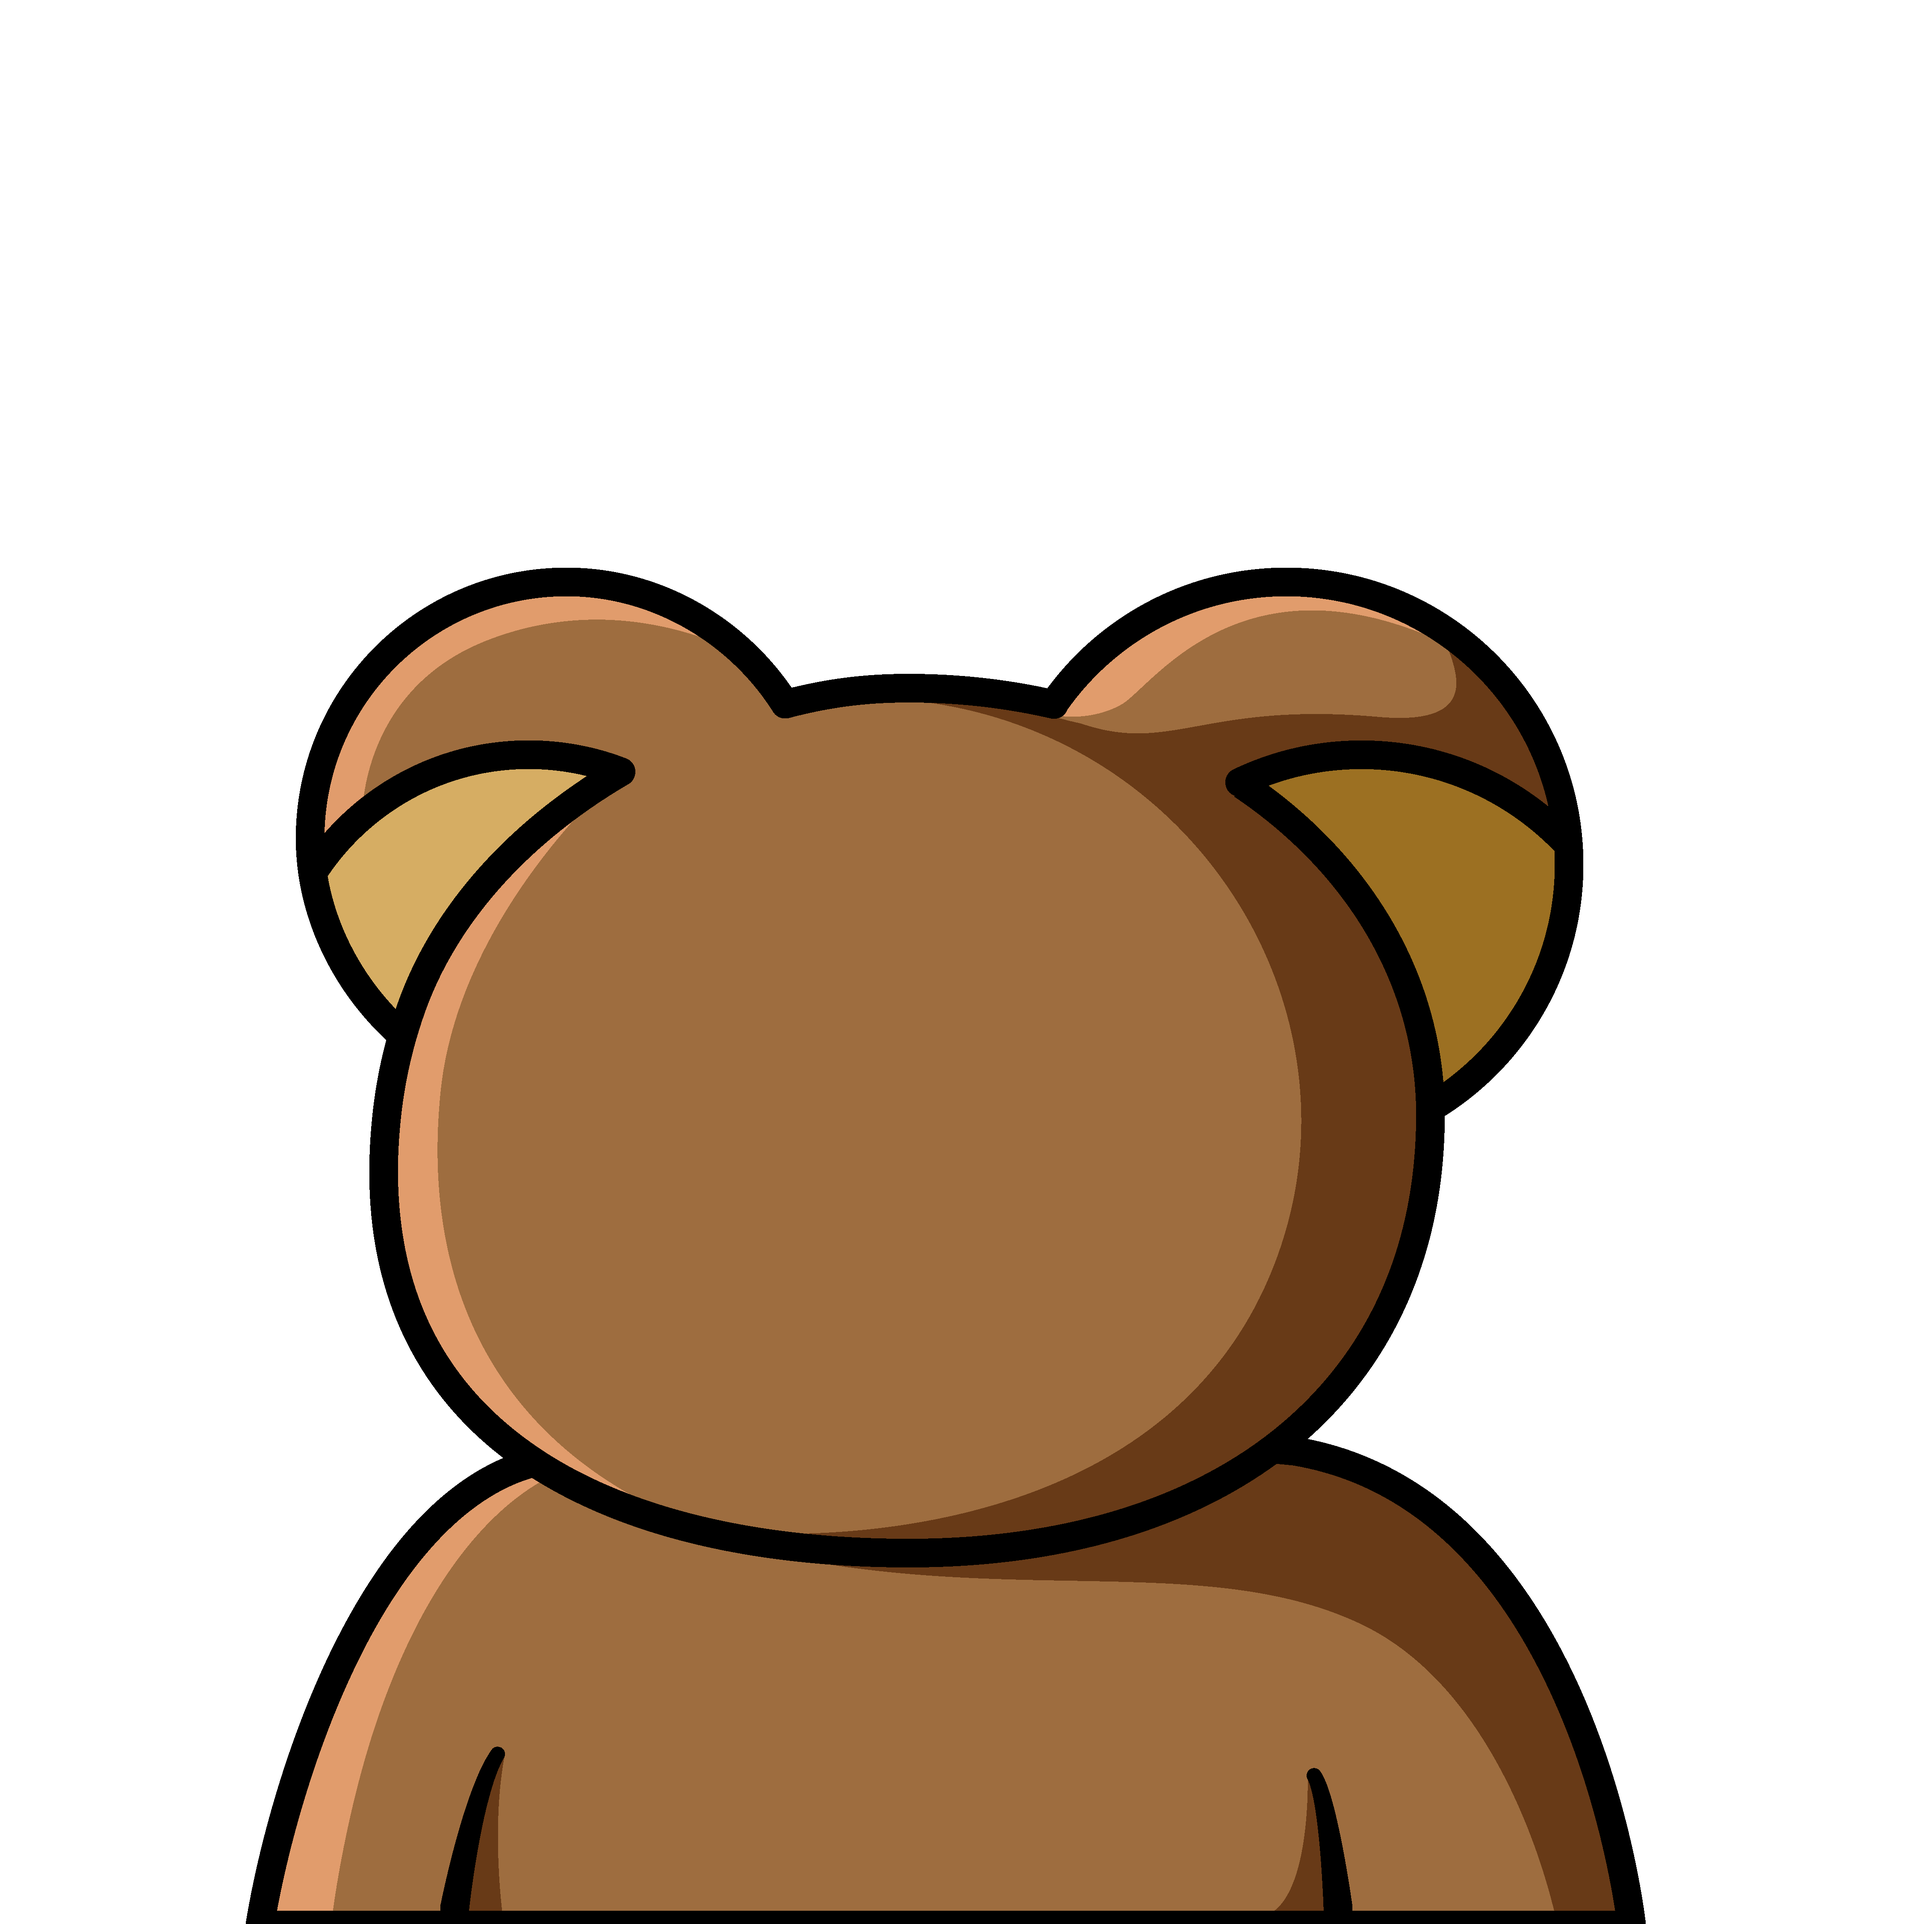
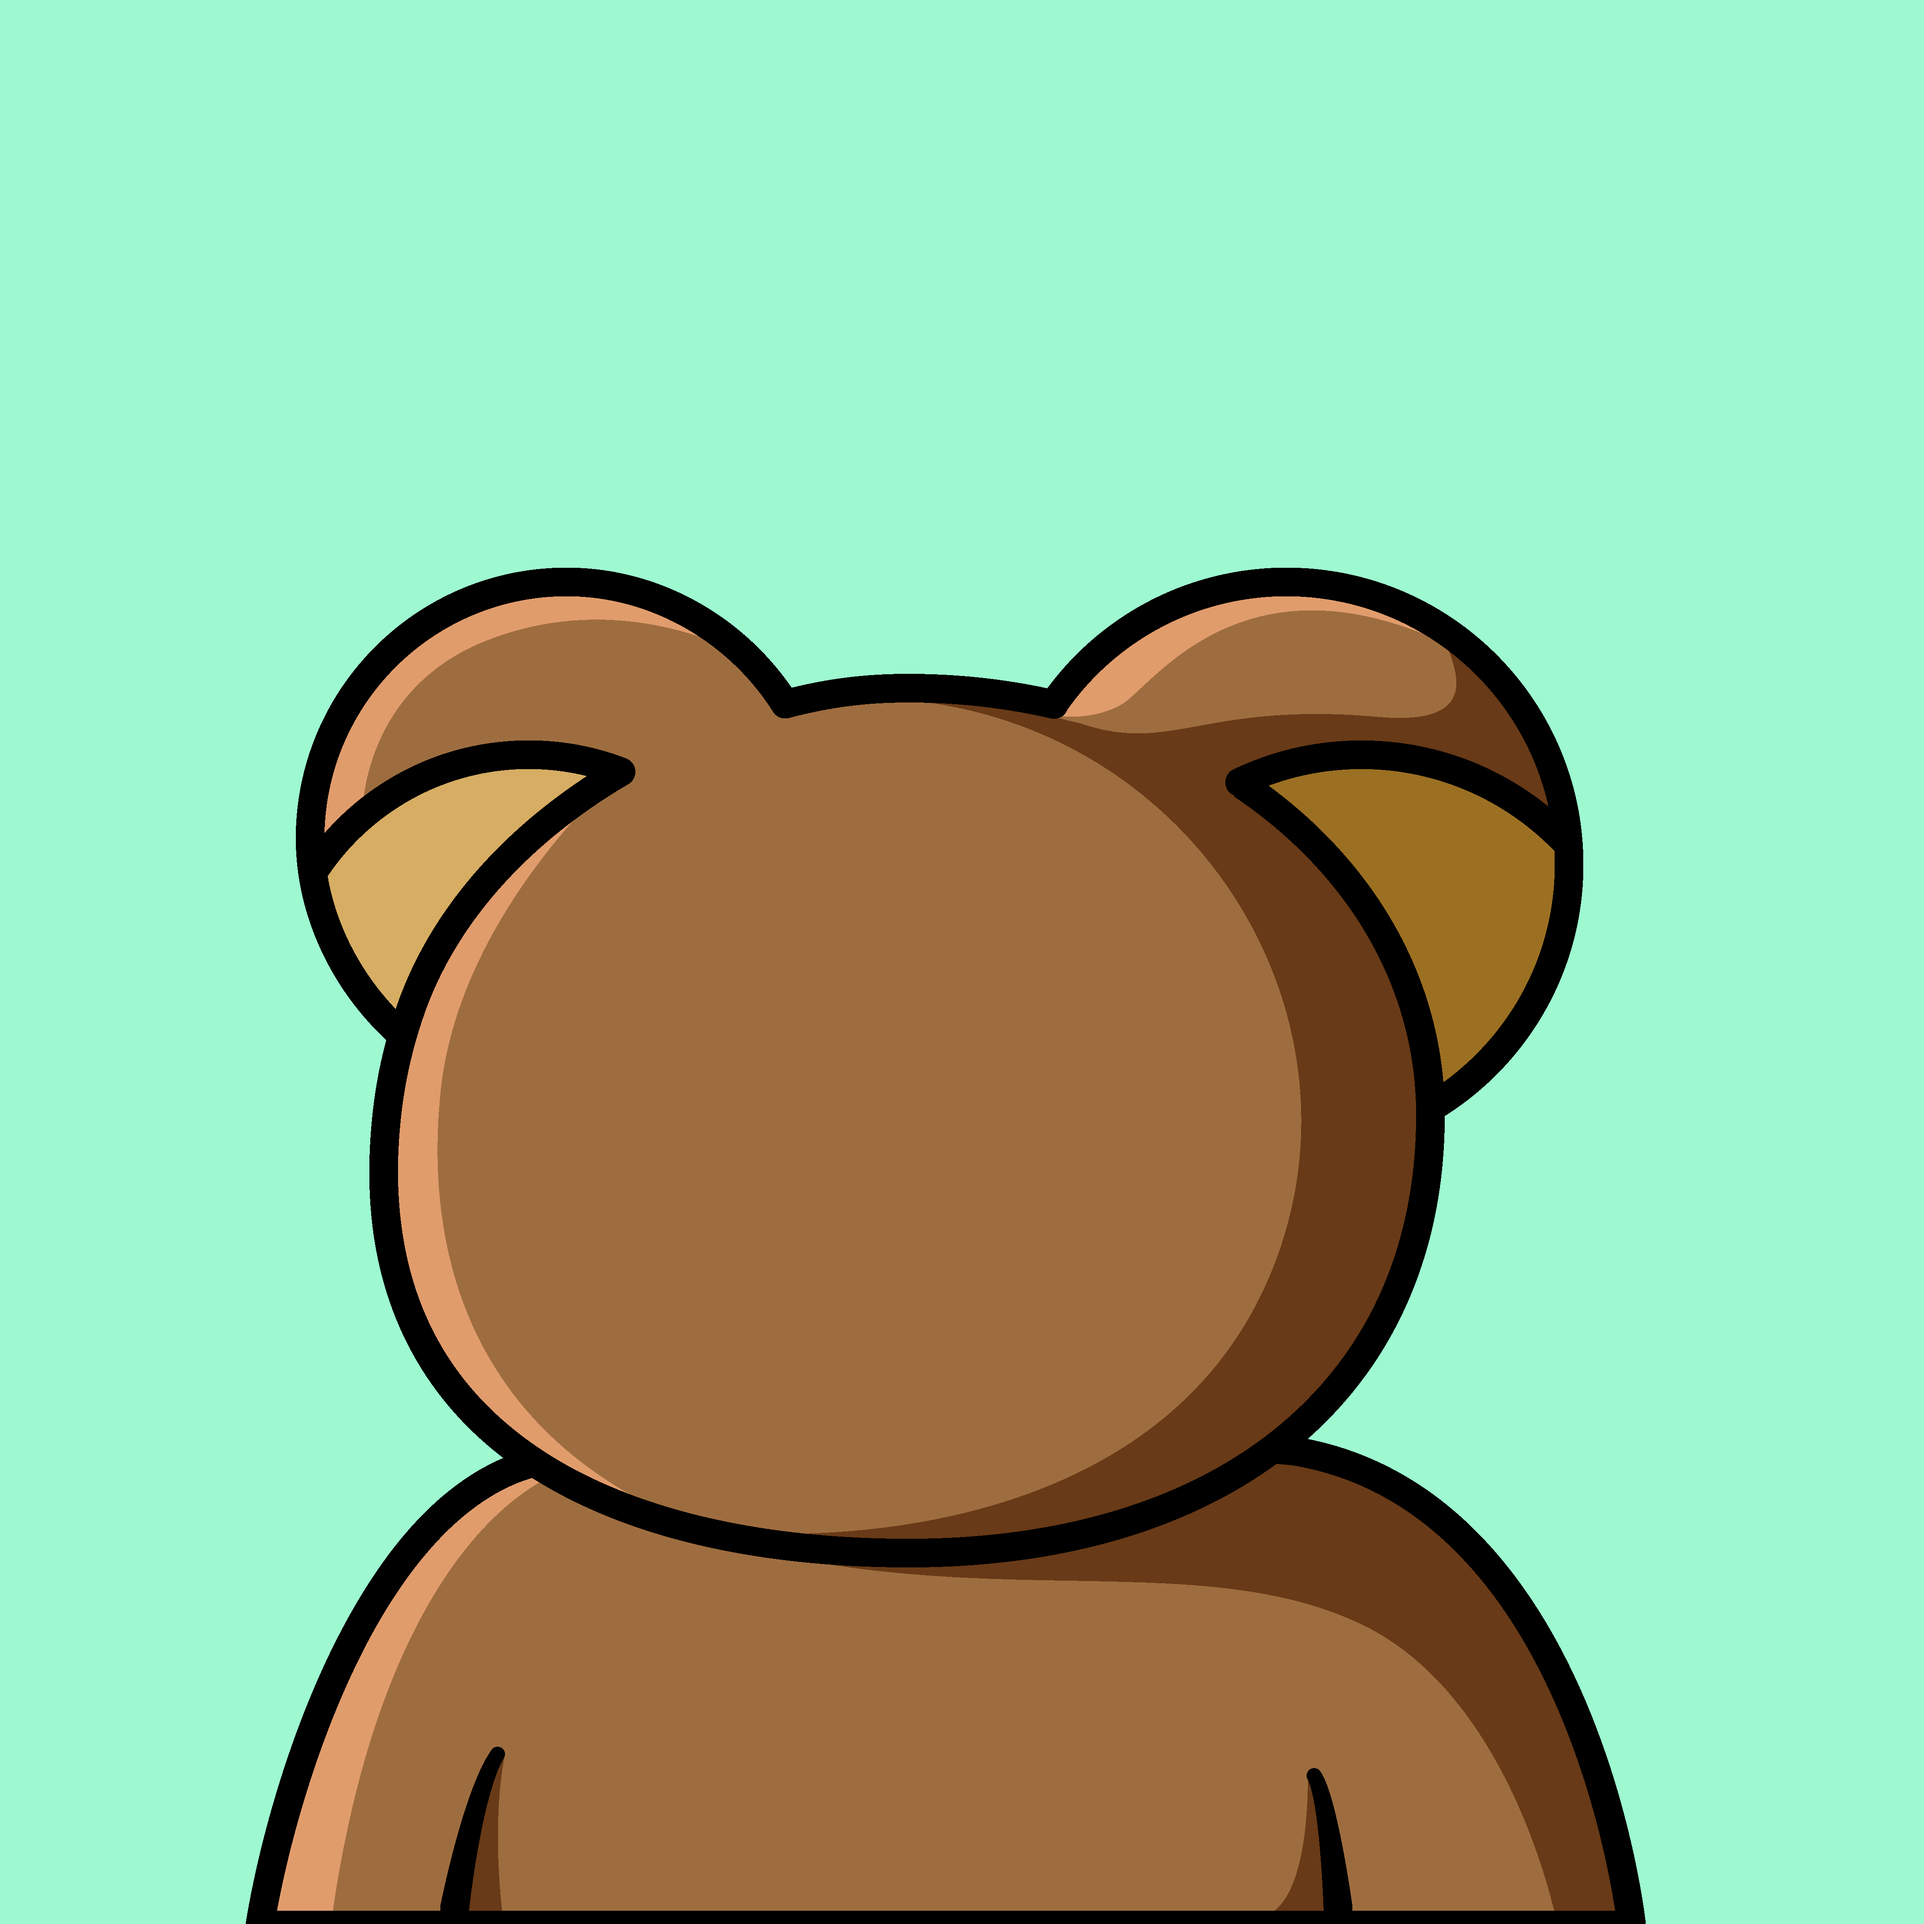
new images, removed background traits

diff --git a/src/components/builder/builYourBear.vue b/src/components/builder/builYourBear.vue
@@ -49,7 +49,6 @@
         <div class="builderBearContainer"> 
           <div class="builderPreview">
             <div class="relative" id="bearBuilder">
-              <div class="absolute left-0 w-full h-full  itsTrait" id="backgroundBuilderCanvas"></div>
               <div class="absolute left-0 w-full h-full  itsTrait" id="speciesBuilderCanvas"></div>
               <div class="absolute left-0 w-full h-full  itsTrait" id="faceBuilderCanvas"></div>
               <div class="absolute left-0 w-full h-full  itsTrait" id="headwearUnderBuilderCanvas"></div>
@@ -88,7 +87,6 @@ export default {
       currentTraitDescription: 'Brown Bear',
       removeTraitBlockerText: '',
       newUpdate: '',
-      backgroundCanvas : '',
       speciesCanvas : '',
       faceCanvas : '',
       headwearUnderCanvas: '',
@@ -113,7 +111,6 @@ export default {
       currentTrait: 'species',
       currentTraitName: 'Species',
       currentIndex: {
-        background: "1",
         species: "1",
         face: "1",
         facialhair: "1",
@@ -206,7 +203,6 @@ export default {
       ////////////////////////////////////
       /////////// SPECIES
       if(this.currentTrait === 'species'){
-        this.applySingleTrait('background', this.traits['background'][this.currentIndex[this.currentTrait]]['N']); 
         this.applySingleTrait('species', this.traits['species'][this.currentIndex[this.currentTrait]]['N']); 
         this.applySingleTrait('face', this.traits['face']['1']['N']+this.traits['species'][this.currentIndex[this.currentTrait]]['D']);            
       }
@@ -229,6 +225,7 @@ export default {
       /////////// HEADWEAR AND UNDER-HEADWER
       else if (this.currentTrait === 'headwear'){
         this.removeTrait('headwearUnder');
+        this.removeTrait('headwear');
           if (this.currentIndex[this.currentTrait] > 31){
             this.notebookHead = true  
             this.disableTrait('cigarpipeSelector')
@@ -344,32 +341,6 @@ export default {
       }
     
     },
-    setBackgroundTrait(){
-      let backgroundTrait = null;
-      switch (this.currentIndex[this.currentTrait])
-      {
-        case '1':
-        backgroundTrait = '02.png'
-          break;
-        case '2':
-        backgroundTrait = '01.png'
-          break;
-        case '3':
-        backgroundTrait = '03.png'
-          break;
-        case '4':
-        backgroundTrait = '04.png'
-          break;
-        case '5':
-        backgroundTrait = '05.png'
-          break;
-        default:
-        backgroundTrait = '01.png'
-      }
-      const traitCanvas = document.getElementById('backgroundBuilderCanvas');
-      traitCanvas.style.backgroundImage = `url('images/traits/background/${backgroundTrait}')`;
-      traitCanvas.style.backgroundSize = 'cover';
-    },
     drawImagesToCanvas() {
       const canvas = this.$refs.bearCanvas;
       const ctx = canvas.getContext("2d");
@@ -410,8 +381,6 @@ export default {
     }
   },
   mounted() {
-
-    this.backgroundCanvas = document.getElementById("backgroundBuilderCanvas");
     this.speciesCanvas = document.getElementById("speciesBuilderCanvas");
     this.faceCanvas = document.getElementById("faceBuilderCanvas");
     this.headwearUnderCanvas = document.getElementById("headwearUnderBuilderCanvas");
@@ -440,12 +409,6 @@ export default {
   background-size: cover;
   background-position: center;
 }
-#backgroundBuilderCanvas{
-  background-image: url("/images/traits/background/02.png");
-  background-position: center;
-  background-size: cover;
-}
-
 #speciesBuilderCanvas{
   background-image: url(/images/traits/species/01.png);
   background-position: center;
@@ -693,7 +656,7 @@ border-radius: 255px 15px 225px 15px/15px 225px 15px 255px;
   cursor: not-allowed;
 }
 .currentTraitDescription {
-  font-size: 1.8rem;
+  font-size: 1.3rem;
   position: relative;
   top: 10px;
 }
